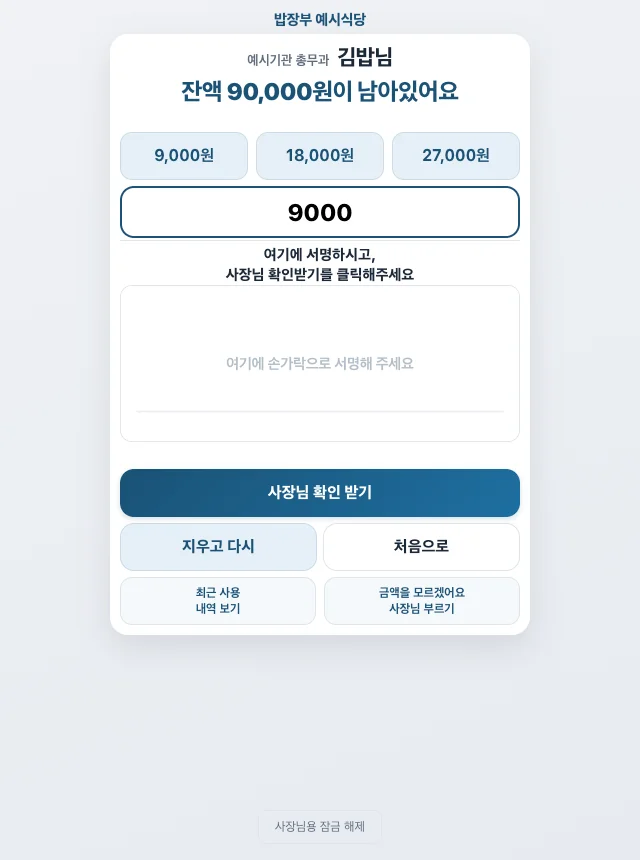
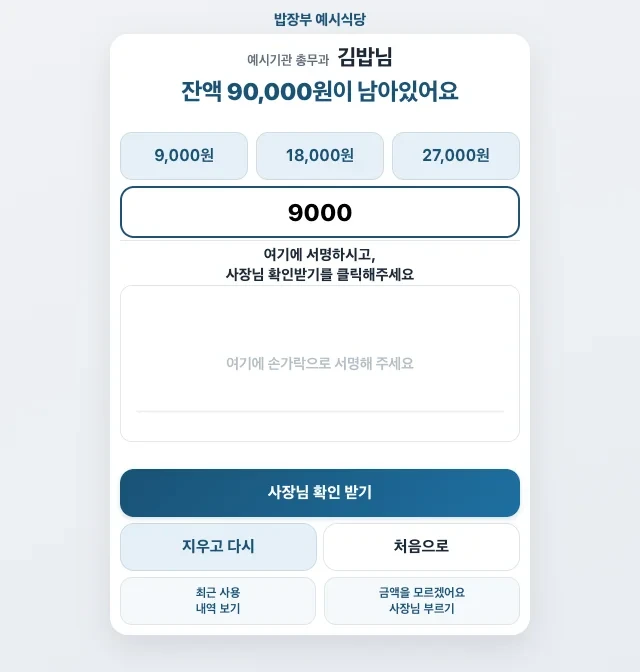
홈페이지 메인 디자인 개선: 이름 확인 화면+단계 목록, 백업 안내 상자, 질문 +/−, 첫 화면 사진 크롭
Codex 초안(ORCA 작업지시서)을 그대로 적용. guest-amount.webp는 미사용이라 제외.
검증: 4폭 넘침 0·역할 버튼 첫 화면·대비/글자/터치·CSP·외부 요청 0·링크 보존.

diff --git a/homepage/home.css b/homepage/home.css
@@ -9,18 +9,28 @@ header .wrap{min-height:86px;display:flex;align-items:center;justify-content:spa
 .brand img{width:56px;height:56px;object-fit:contain}header nav a{display:inline-flex;align-items:center;min-height:44px;font-size:17px}
 .hero{padding:36px 0 48px}.hero-grid{display:grid;grid-template-columns:1.15fr 1fr;gap:60px;align-items:center}
 .eyebrow{color:var(--brown);font-size:17px;font-weight:700;margin:0 0 12px}
-h1{font-size:52px;line-height:1.18;letter-spacing:-2px;margin:0 0 20px}h1 span{color:var(--ink)}
+h1{font-size:52px;line-height:1.18;letter-spacing:-1px;margin:0 0 20px}h1 span{color:var(--ink)}
 .sub{margin:0 0 16px;font-size:20px}.free{font-size:16px;color:var(--muted);margin:0 0 20px}
 .roles{display:grid;gap:10px}.role{display:flex;justify-content:space-between;align-items:center;gap:10px;min-height:56px;padding:12px 18px;border:1px solid #a5aaa2;border-radius:6px;color:var(--text);text-decoration:none;font-size:18px;font-weight:700;background:var(--white)}
 .role.primary{background:var(--ink);color:white;border-color:var(--ink);min-height:66px}.role .action{white-space:nowrap;font-size:17px}.role small{display:block;font-weight:400;font-size:16px}.hint{font-size:16px;color:var(--muted);margin:12px 0 0}
-figure{margin:0}.screen{max-width:380px;margin:auto;background:#edf1f5;border:8px solid #303737;border-radius:22px;overflow:hidden;box-shadow:8px 12px 0 #e6e1d5}
+figure{margin:0}.screen{max-width:380px;margin:auto;background:#ebeef2;border:8px solid #303737;border-radius:22px;overflow:hidden;box-shadow:8px 12px 0 var(--line)}
 .screen img{display:block;width:100%;height:auto}figcaption{font-size:16px;color:var(--muted);text-align:center;margin-top:16px}
 section:not(.hero){border-top:1px solid var(--line);padding:40px 0}h2{font-size:29px;line-height:1.35;letter-spacing:-.8px;margin:0 0 24px}h3{font-size:21px;margin:0 0 6px}
-.usage{display:grid;grid-template-columns:1fr 1fr;gap:52px}.usage p{margin:0}.who{font-size:16px;color:var(--brown);font-weight:700;margin-bottom:8px!important}.usage .owner{border-left:3px solid var(--ink);padding-left:24px}
-.note{margin:24px 0 0;color:var(--muted);font-size:16px}
+.band{background:var(--white)}section.band{padding:48px 0}
+.usage{display:grid;grid-template-columns:minmax(0,.9fr) minmax(0,1.1fr);gap:52px;align-items:center}.usage p{margin:0}
+.screen.small{max-width:300px;border-width:6px;border-radius:16px;box-shadow:6px 9px 0 var(--line)}
+.steps{list-style:none;margin:0;padding:0;display:grid;gap:26px;counter-reset:step}
+.steps li{counter-increment:step;display:grid;grid-template-columns:44px minmax(0,1fr);column-gap:16px}
+.steps li::before{content:counter(step);grid-row:1 / span 3;width:44px;height:44px;border-radius:50%;border:2px solid var(--ink);color:var(--ink);display:flex;align-items:center;justify-content:center;font-weight:800;font-size:20px;background:var(--white)}
+.steps li.owner::before{background:var(--ink);color:white}
+.who{font-size:16px;color:var(--brown);font-weight:700;margin-bottom:4px!important}
+.note{margin:36px 0 0;padding:18px 22px;background:var(--paper);border:1px solid var(--brown);border-radius:6px;display:grid;gap:4px}
+.note p{margin:0;font-size:17px}.note .note-title{font-weight:800;font-size:18px;color:var(--brown)}.note a{display:inline-flex;align-items:center;min-height:44px;font-size:17px;justify-self:start}
 .manual-row{display:flex;align-items:center;justify-content:space-between;gap:12px;padding:15px 0;border-bottom:1px solid var(--line);text-decoration:none;font-size:18px;min-height:60px}.manual-row span:last-child{font-size:17px;white-space:nowrap}
-.faq details{border-bottom:1px solid var(--line)}summary{cursor:pointer;min-height:58px;padding:15px 0;font-size:18px;font-weight:700}details p{margin:0 0 20px;font-size:18px}
-.more{display:inline-flex;align-items:center;min-height:48px;margin-top:12px;font-size:17px}
+.faq details{border-bottom:1px solid var(--line)}summary{cursor:pointer;min-height:58px;padding:15px 0;font-size:18px;font-weight:700;list-style:none;display:flex;justify-content:space-between;align-items:center;gap:16px}
+summary::-webkit-details-marker{display:none}summary::after{content:"+";flex:0 0 auto;color:var(--ink);font-size:26px;font-weight:400;line-height:1}details[open] summary::after{content:"−"}
+details p{margin:0 0 20px;font-size:18px}
+.more{display:inline-flex;align-items:center;min-height:48px;margin-top:12px;font-size:17px}.more-links{display:flex;flex-wrap:wrap;gap:0 24px}
 footer{background:#e9e6dc;border-top:1px solid var(--line);padding:30px 0;font-size:16px}footer p{margin:0 0 12px}.footer-links{display:flex;flex-wrap:wrap;gap:0 20px}.footer-links a{display:inline-flex;align-items:center;min-height:44px;font-size:17px}.copyright{margin-top:16px;color:var(--muted)}
-@media(max-width:700px){header .wrap{min-height:70px}.brand{font-size:26px}.brand img{width:44px;height:44px}.hero{padding:18px 0 32px}.hero-grid{grid-template-columns:1fr;gap:30px}h1{font-size:38px;letter-spacing:-1.5px;margin-bottom:14px}.eyebrow{font-size:16px;margin-bottom:10px}.sub{font-size:18px;margin-bottom:10px}.free{margin-bottom:16px}.role{padding:11px 14px;font-size:17px}.role.primary{min-height:62px}.screen{max-width:280px;border-width:6px;border-radius:16px}figcaption{margin-top:12px}section:not(.hero){padding:30px 0}h2{font-size:26px;margin-bottom:20px}.usage{grid-template-columns:1fr;gap:22px}.usage .owner{padding-left:16px}.note{margin-top:18px}.manual-row{font-size:17px}.wrap{width:calc(100% - 36px)}}
+@media(max-width:700px){header .wrap{min-height:70px}.brand{font-size:26px}.brand img{width:44px;height:44px}.hero{padding:18px 0 32px}.hero-grid{grid-template-columns:1fr;gap:30px}h1{font-size:38px;letter-spacing:-.8px;margin-bottom:14px}.eyebrow{font-size:16px;margin-bottom:10px}.sub{font-size:18px;margin-bottom:10px}.free{margin-bottom:16px}.role{padding:11px 14px;font-size:17px}.role.primary{min-height:62px}.screen{max-width:280px;border-width:6px;border-radius:16px}figcaption{margin-top:12px}section:not(.hero){padding:30px 0}section.band{padding:34px 0}h2{font-size:26px;margin-bottom:20px}.usage{grid-template-columns:1fr;gap:28px}.screen.small{max-width:260px}.steps{gap:20px}.steps li{grid-template-columns:40px minmax(0,1fr);column-gap:14px}.steps li::before{width:40px;height:40px;font-size:18px}.note{margin-top:26px;padding:16px 18px}.manual-row{font-size:17px}.wrap{width:calc(100% - 36px)}}
 @media(prefers-reduced-motion:reduce){html{scroll-behavior:auto}}

diff --git a/homepage/index.html b/homepage/index.html
@@ -36,13 +36,17 @@
 <a class="role primary" href="https://app.bapjangbu.com/" target="_blank" rel="noopener"><span>음식점 사장님</span><span class="action">앱 열기 →</span></a>
 <a class="role" href="https://agency.bapjangbu.com" target="_blank" rel="noopener"><span>공공기관 담당자(서무)</span><span class="action">웹 열기 →</span></a>
 <a class="role" href="https://staff.bapjangbu.com/" target="_blank" rel="noopener"><span>직원<small>내가 따로 적는 기록장 · 베타</small></span><span class="action">앱 열기 →</span></a>
-</div><p class="hint">가입 없이 시작해요. 각 앱은 새 탭으로 열려요.</p></div>
-<figure><div class="screen"><img src="img/guest-screen.webp" width="640" height="860" loading="eager" fetchpriority="high" alt="실제 손님용 금액·서명 화면 예시. 금액을 적고 서명한 뒤 사장님 확인 받기를 눌러요."></div><figcaption>실제 앱 화면 · 이름과 금액은 설명용 예시예요.</figcaption></figure>
+</div><p class="hint">각 앱은 새 탭으로 열려요.</p></div>
+<figure><div class="screen"><img src="img/guest-screen.webp" width="640" height="672" loading="eager" fetchpriority="high" alt="실제 손님용 금액·서명 화면 예시. 금액을 적고 서명한 뒤 사장님 확인 받기를 눌러요."></div><figcaption>실제 앱 화면 · 이름과 금액은 설명용 예시예요.</figcaption></figure>
 </div></section>
-<section id="use"><div class="wrap"><h2>식사 후, 이렇게 기록해요</h2><div class="usage">
-<div><p class="who">손님이 할 일</p><h3>내 이름 찾기 → 금액·서명</h3><p>이름과 소속을 확인하고,<br>다 적었으면 [사장님 확인 받기]를 눌러요.</p></div>
-<div class="owner"><p class="who">사장님이 할 일</p><h3>비밀번호 → 확인 → 저장</h3><p>이름·금액·서명을 보고 저장해요.<br>손님이 적기만 해서는 기록되지 않아요.</p></div>
-</div><p class="note">가게마다 기기 한 대로 사용해요. 장부는 기기에 저장되니 별도 백업도 챙겨 주세요.</p></div></section>
+<section id="use" class="band"><div class="wrap"><h2>식사 후, 이렇게 기록해요</h2><div class="usage">
+<figure class="usage-shot"><div class="screen small"><img src="img/guest-name.webp" width="440" height="362" loading="lazy" decoding="async" alt="실제 손님용 이름 확인 화면 예시. 소속과 이름을 보고 '네, 맞아요'를 눌러요."></div><figcaption>손님 이름 확인 화면 · 설명용 예시</figcaption></figure>
+<ol class="steps">
+<li><p class="who">손님이 할 일</p><h3>내 이름 찾기</h3><p>이름과 소속을 확인해요.</p></li>
+<li><p class="who">손님이 할 일</p><h3>금액·서명</h3><p>다 적었으면 [사장님 확인 받기]를 눌러요.</p></li>
+<li class="owner"><p class="who">사장님이 할 일</p><h3>비밀번호 → 확인 → 저장</h3><p>이름·금액·서명을 보고 저장해요.<br>손님이 적기만 해서는 기록되지 않아요.</p></li>
+</ol></div>
+<div class="note" role="note"><p class="note-title">장부는 이 기기에 저장돼요</p><p>가게마다 기기 한 대로 사용해요. 장부는 기기에 저장되니 별도 백업도 챙겨 주세요.</p><a href="https://app.bapjangbu.com/docs/manual-restaurant.html#backup" target="_blank" rel="noopener">백업 방법 보기 →</a></div></div></section>
 <section id="manuals"><div class="wrap"><h2>처음이라면, 내 사용법부터</h2>
 <a class="manual-row" href="https://app.bapjangbu.com/docs/manual-restaurant.html" target="_blank" rel="noopener"><span>음식점 사장님</span><span>가게 장부 쓰기 →</span></a>
 <a class="manual-row" href="https://app.bapjangbu.com/docs/manual-agency.html" target="_blank" rel="noopener"><span>공공기관 담당자(서무)</span><span>명단 보내기 →</span></a>
@@ -53,7 +57,7 @@
 <details><summary>이 앱으로 돈이 오가나요?</summary><p>아니요. 받은 선금과 식사 내역을 기록하는 장부예요. 운영자는 돈을 받거나 보관하지 않아요.</p></details>
 <details><summary>손님도 앱을 설치해야 하나요?</summary><p>아니요. 가게 태블릿이나 스마트폰에서 입력하면 돼요. 직원용 앱은 내 폰에 따로 적어 두고 싶을 때만 써요. 가게 장부와 자동으로 연결되지 않아요.</p></details>
 <details><summary>폰을 바꾸거나 앱을 지워도 되나요?</summary><p>먼저 장부와 가게 열쇠를 백업해 주세요. 앱을 지워도 서버의 가게 등록은 남아요. 등록 해제와 기기 변경 순서는 <a href="https://app.bapjangbu.com/docs/manual-restaurant.html#backup">사장님 안내서</a>를 확인해 주세요.</p></details>
-<a class="more" href="help.html#faq">질문 전체 보기 · 13개 →</a> <a class="more" href="help.html#feedback">의견·문의 남기기 →</a>
+<div class="more-links"><a class="more" href="help.html#faq">질문 전체 보기 · 13개 →</a><a class="more" href="help.html#feedback">의견·문의 남기기 →</a></div>
 </div></section></main>
 <footer><div class="wrap"><p><strong>돈은 앱을 거치지 않아요</strong><br>결제(제로페이, 카드 등)는 가게에서 따로 해요.</p><p>개인 개발자가 운영하는 비영리·무료 파일럿이에요.</p>
 <nav class="footer-links" aria-label="정책 및 문의"><a href="https://app.bapjangbu.com/docs/privacy.html" target="_blank" rel="noopener">개인정보처리방침</a><a href="https://app.bapjangbu.com/docs/terms.html" target="_blank" rel="noopener">이용약관</a><a href="mailto:contact@bapjangbu.com">이메일 문의</a></nav><p class="copyright">© 2026 밥장부 · 널마루</p></div></footer>

diff --git a/docs/homepage-renewal-report-2026-10b.md b/docs/homepage-renewal-report-2026-10b.md
@@ -1,0 +1,25 @@
+# 밥장부 메인 디자인 개선 결과 (2026-10-25)
+
+작업지시서: `방자방부 디자인 평가.zip`의 `ORCA_작업지시서.md`(Codex 초안). 검증·적용·배포: Claude.
+
+## 바꾼 파일
+- `homepage/index.html`, `homepage/home.css` — 초안 그대로 적용
+- `homepage/img/guest-screen.webp` — 640×860 → 640×672(아래 여백과 [사장님용 잠금 해제] 버튼까지 잘림 — 사용자 결정: 그대로 둠)
+- `homepage/img/guest-name.webp` — 추가(`docs/assets/manuals/guest-name.webp`와 바이트 동일, 8KB)
+- 압축파일의 `guest-amount.webp`는 어디서도 쓰지 않아 **복사하지 않음**
+- `_headers`·`help.html`·`og-image.png`·앱·담당자 웹·서버 무변경
+
+## 변경 내용
+첫 화면 앱 사진 크롭, `#use`를 실제 이름 확인 화면 + 번호 1·2·3 단계(3=사장님, 남색 채움)로, 백업 안내를 종이색 상자 + 제목 + `#backup` 링크로, 질문 펼침 표시 `+ / −`, 제목 자간 완화, 구획 배경 리듬(`.band`), 하단 링크 묶음, 반복 문구 축약("각 앱은 새 탭으로 열려요.").
+
+## 검증(별도 정적 서버 + Playwright, `_headers` CSP 적용, 외부 요청 차단)
+| 항목 | 결과 |
+|---|---|
+| 가로 넘침 | 360/390/768/1280 모두 0 |
+| 역할 버튼 3개 첫 화면 | 모두 안(390×844에서 하단 527px) |
+| 글자·대비·터치 | 16px 미만 0, 대비 4.5 미만 0, 44px 미만 0(FAQ 본문 인라인 링크 1개 제외) |
+| 이미지 | 640:672 비율 유지, alt 전부 |
+| 질문 `+ / −` | 클릭·Enter 모두 정상 |
+| 콘솔·CSP | 오류 0, 외부 요청 0 |
+| 링크 | 기존 전부 보존 + `manual-restaurant.html#backup`(라이브 200·앵커 존재) |
+| 필수 문구 | 무료·가입 없음·결제앱이 아닙니다·돈은 앱을 거치지 않아요 유지 |
